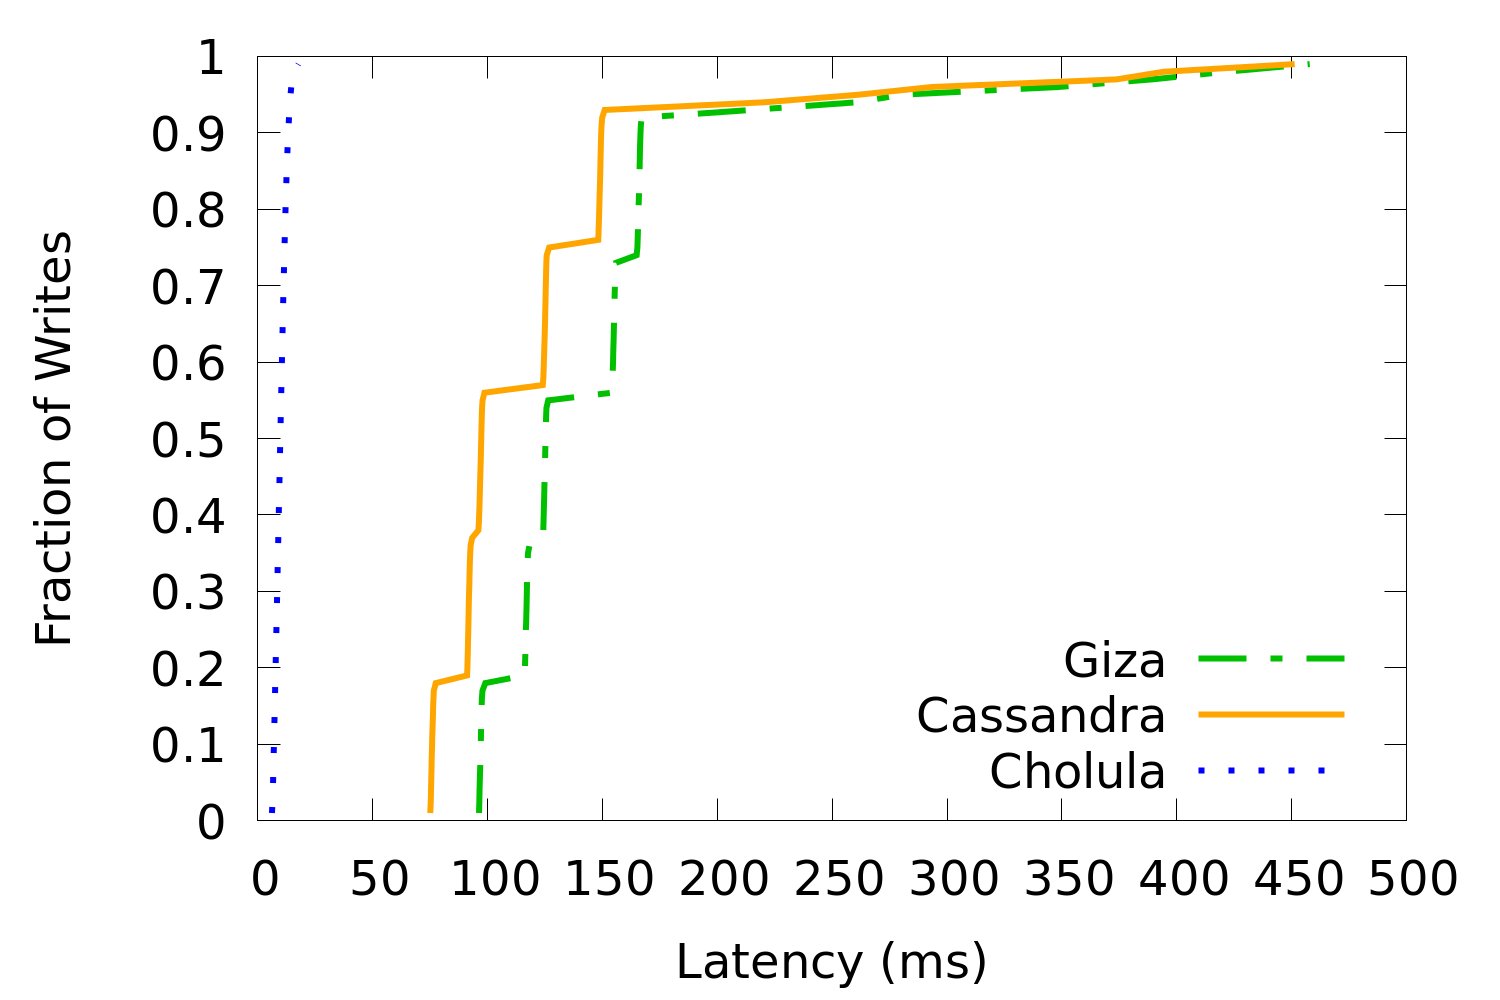
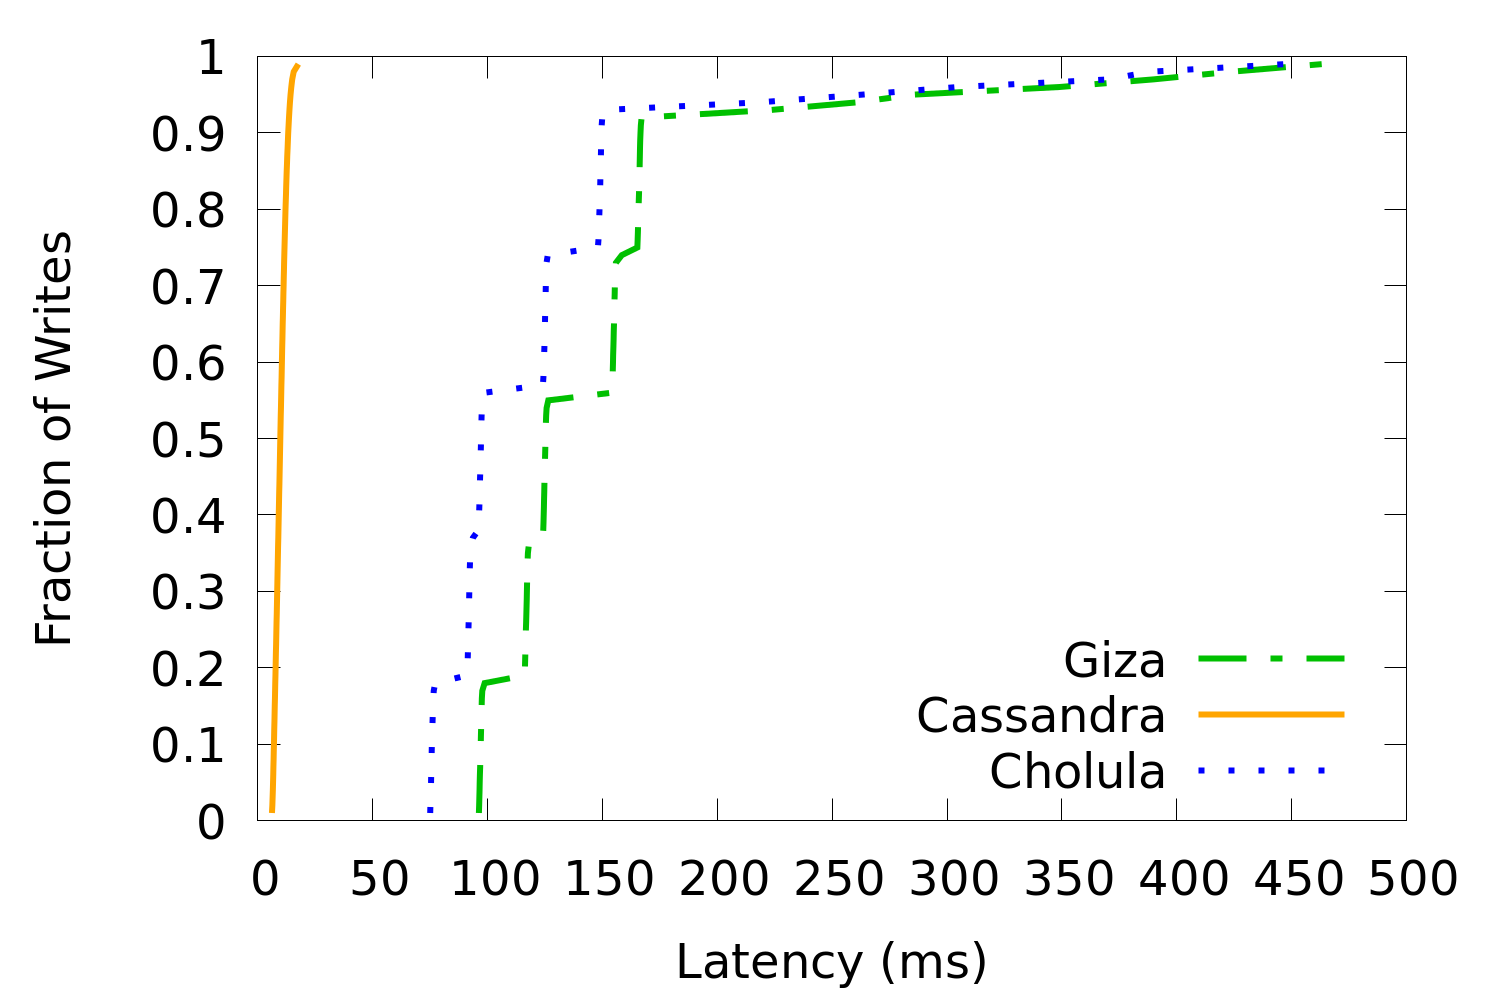
fixed plotting

diff --git a/plotFigs/plot_figs.py b/plotFigs/plot_figs.py
@@ -17,8 +17,9 @@ def main():
     
     giza_folder = os.path.join(results_folder, "22")
     cassandra_folder = os.path.join(results_folder, "19")
-    cholula_folder = os.path.join(results_folder, "23")
+    cholula_folder = os.path.join(results_folder, "21")
 
+# TOdo :Investigate whether order of arguments matters
     #fig 6
     giza_csvs, cassandra_csvs, cholula_csvs = calculate_fig_6_csvs(giza_folder,
                                                                            cassandra_folder,
@@ -29,8 +30,8 @@ def main():
 
 
     os.unlink(giza_csvs)
-    os.unlink(cholula_csvs)
     os.unlink(cassandra_csvs)
+    os.unlink(cholula_csvs)
 
 
 # Returns a tuple of tuple of csv paths.
@@ -43,10 +44,10 @@ def calculate_fig_6_csvs(giza_folder, cassandra_folder, cholula_folder):
 
     # Calculate csvs for each list of latencies.
     giza_cdf_csv, _ = latencies_to_csv(giza_latencies, "giza", "6a-write")
-    giza_contention_cdf_csv, _ = latencies_to_csv(cholula_latencies, "cholula", "6a-write")
     cassandra_cdf_csv, _ = latencies_to_csv(cassandra_latencies, "cassandra", "6a-write")
+    cholula_cdf_csv, _  = latencies_to_csv(cholula_latencies, "cholula", "6a-write")
 
-    return giza_cdf_csv, giza_contention_cdf_csv, cassandra_cdf_csv
+    return giza_cdf_csv, cassandra_cdf_csv, cholula_cdf_csv
 
 if __name__ == "__main__":
     main()
